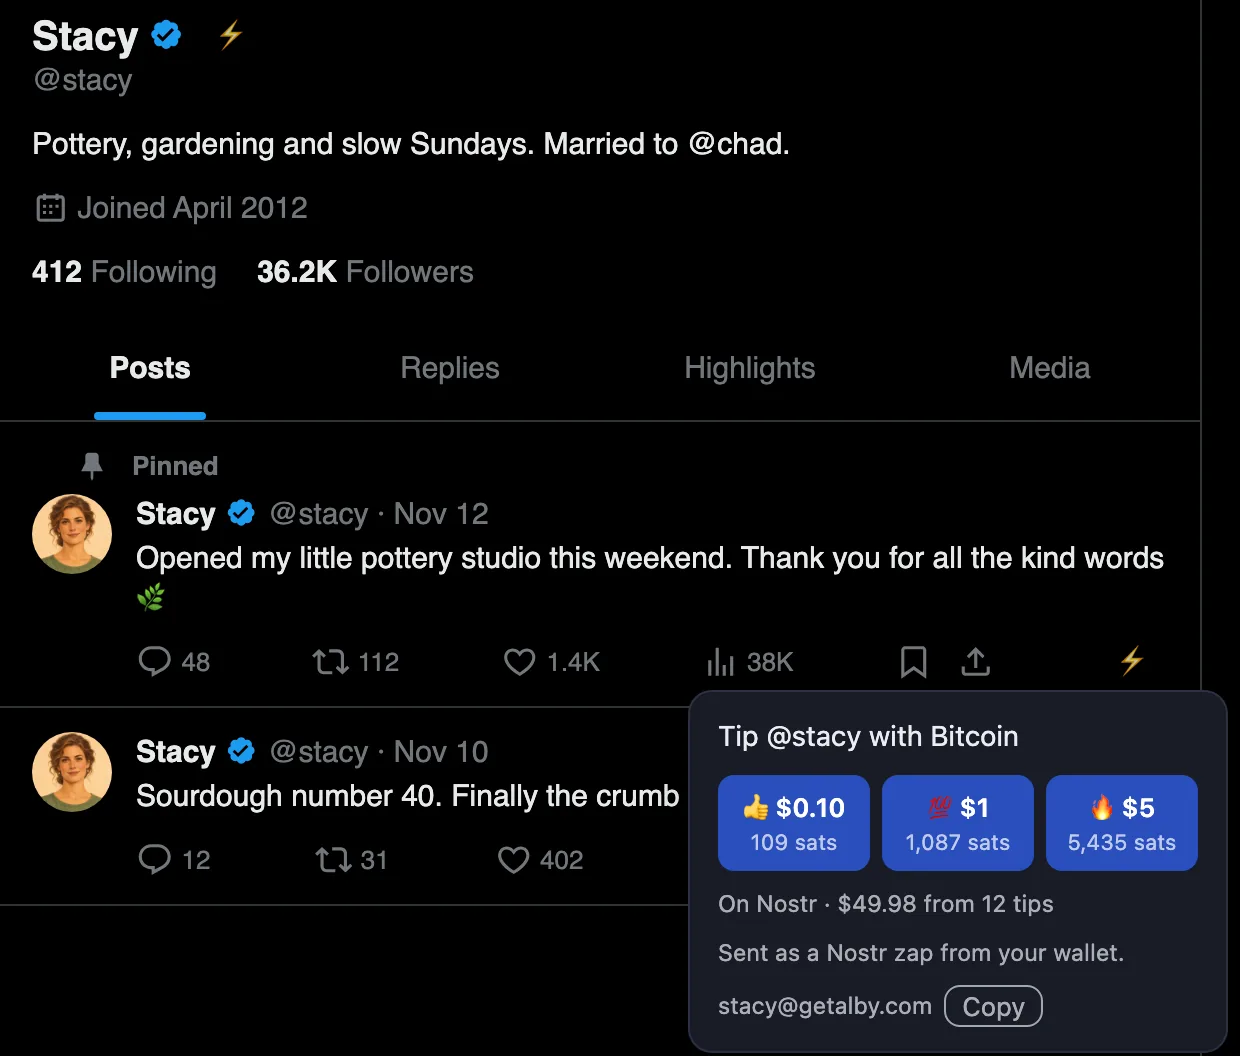
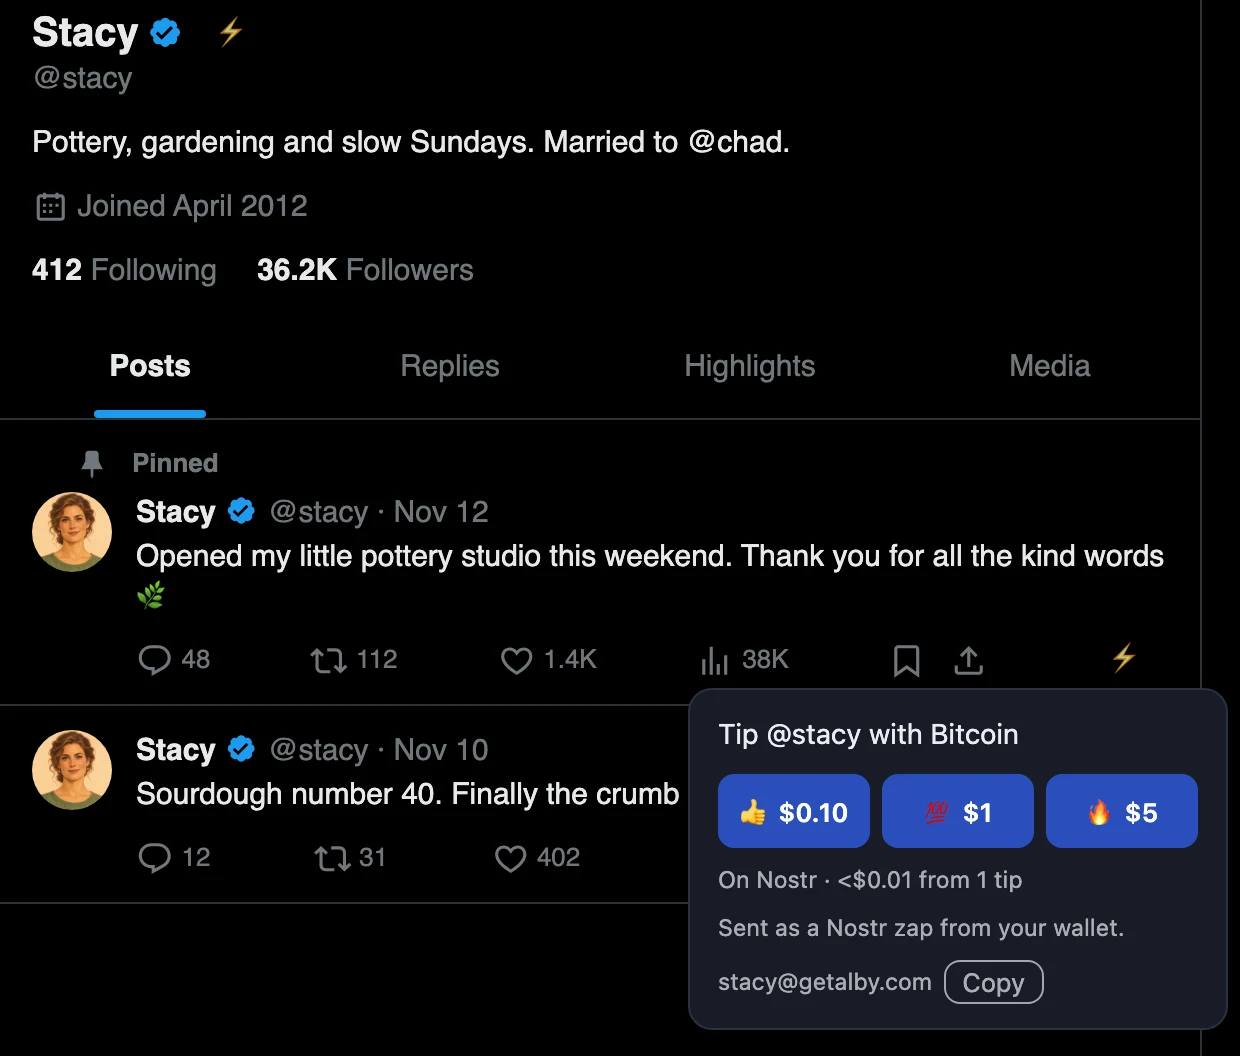
Show fiat-only tip amounts and refresh Stacy’s profile screenshots

diff --git a/src/x-tip-buttons.ts b/src/x-tip-buttons.ts
@@ -7,9 +7,8 @@ import qrcode from 'qrcode-generator';
 // that can receive tips. Paying happens in the user's own wallet via a lightning: link.
 
 type Send = (message: Message) => Promise<{ ok: boolean; value?: unknown; error?: string } | undefined>;
-// Small, medium and large tips, with Iris's emoji. Sats are used when no exchange rate is available.
+// Small, medium and large tips, with Iris's emoji.
 const EMOJI = ['👍', '💯', '🔥'];
-const SATS = [21, 100, 1000];
 const MARK = 'data-social-backup-tip';
 
 function author(article: Element) {
@@ -89,7 +88,7 @@ export function createTipButtons(send: Send, doc: Document = document) {
         padding:12px 14px;width:240px;box-shadow:0 8px 24px #0002}
       @media (prefers-color-scheme:dark){.box{background:#181c26;color:#e9ecf3;border-color:#2a3142}}
       p{margin:0 0 10px} small{opacity:.7;display:block;margin-top:8px} small:empty{display:none}
-      .row{display:flex;gap:6px} button small{display:block;margin:2px 0 0;font-weight:400}
+      .row{display:flex;gap:6px}
       button,a{flex:1;font:600 13px system-ui;border-radius:8px;padding:7px 0;cursor:pointer;
         text-align:center;text-decoration:none;border:1px solid #2a4fbd;background:#2a4fbd;color:#fff}
       button.alt{background:none;color:inherit;border-color:#dce2ec}
@@ -110,11 +109,9 @@ export function createTipButtons(send: Send, doc: Document = document) {
       box.querySelector('.address span')!.textContent = target.lightning;
       box.querySelector('.address button')!.addEventListener('click', () => void navigator.clipboard.writeText(target.lightning));
       const row = box.querySelector('.row')!;
-      rate ??= send({ type: 'tipRate', currency })
+      const currentRate = rate ??= send({ type: 'tipRate', currency })
         .then((reply) => (reply?.ok && typeof reply.value === 'number' ? reply.value : null))
         .catch(() => null);
-      const amount = (sats: number, perBitcoin: number | null) =>
-        perBitcoin ? formatFiat((sats / 1e8) * perBitcoin, currency) : sats.toLocaleString() + ' sats';
       // Look for this post's Nostr copy now, not while scrolling, so relays only learn about posts you tip.
       if (post)
         void send({ type: 'tipPost', handle, post: post.id, ...(post.time ? { time: post.time } : {}), ...(post.text ? { text: post.text } : {}) })
@@ -124,23 +121,22 @@ export function createTipButtons(send: Send, doc: Document = document) {
             if (!found?.note || !line) return;
             const show = (perBitcoin: number | null) => {
               line.textContent = found.tips
-                ? 'On Nostr · ' + amount(found.sats, perBitcoin) + ' from ' + found.tips + (found.tips === 1 ? ' tip' : ' tips')
+                ? 'On Nostr · ' + (perBitcoin ? formatFiat(found.sats * perBitcoin / 1e8, currency) + ' from ' : '') + found.tips + (found.tips === 1 ? ' tip' : ' tips')
                 : 'This post is on Nostr.';
             };
-            void rate!.then(show);
+            void currentRate.then(show);
           })
           .catch(() => {});
-      // Amounts appear once the exchange rate is known: in fiat, with sats in small print.
-      void rate!.then((perBitcoin) => {
-        const presets = perBitcoin ? tipPresets(currency, perBitcoin) : SATS.map((sats) => ({ sats, fiat: 0 }));
-        presets.forEach(({ sats, fiat }, i) => {
+      void currentRate.then((perBitcoin) => {
+        if (!perBitcoin) {
+          rate = undefined;
+          row.textContent = 'Exchange rate unavailable.';
+          return;
+        }
+        tipPresets(currency, perBitcoin).forEach(({ sats, fiat }, i) => {
+          const label = formatFiat(fiat, currency);
           const choice = doc.createElement('button');
-          choice.textContent = EMOJI[i] + ' ' + (fiat ? formatFiat(fiat, currency) : sats.toLocaleString() + ' sats');
-          if (fiat) {
-            const small = doc.createElement('small');
-            small.textContent = sats.toLocaleString() + ' sats';
-            choice.append(small);
-          }
+          choice.textContent = EMOJI[i] + ' ' + label;
           choice.addEventListener('click', async () => {
             show('<p>Getting an invoice…</p>');
             const reply = await send({ type: 'tipInvoice', handle, sats, ...(post ? { post: post.id } : {}) }).catch(() => undefined);
@@ -160,7 +156,7 @@ export function createTipButtons(send: Send, doc: Document = document) {
             show('<p>Pay <b></b> in your wallet.</p><div class="qr" role="img" aria-label="Invoice QR code">' +
               qr.createSvgTag({ cellSize: 4, margin: 0, scalable: true }) +
               '</div><div class="row"><a>Open wallet</a><button class="alt">Copy invoice</button></div>');
-            box.querySelector('b')!.textContent = fiat ? formatFiat(fiat, currency) + ' (' + sats.toLocaleString() + ' sats)' : sats.toLocaleString() + ' sats';
+            box.querySelector('b')!.textContent = label;
             box.querySelector('a')!.setAttribute('href', 'lightning:' + invoice);
             box.querySelector('button')!.addEventListener('click', () => void navigator.clipboard.writeText(invoice));
           });

diff --git a/test/x-tips.test.ts b/test/x-tips.test.ts
@@ -74,9 +74,9 @@ test('tip buttons appear only for verified accounts and open the wallet with a c
     (buttons[0] as HTMLElement).click();
     const box = () => doc.body.lastElementChild!.shadowRoot!.querySelector('.box')!;
     await new Promise((resolve) => setTimeout(resolve, 10));
-    // Amounts are in the page's currency, here 0.10 at 100,000 per bitcoin, with sats in small print.
+    // Amounts are in the page's currency, here 0.10 at 100,000 per bitcoin, with no secondary amount.
     assert.match(box().querySelector('.row button')!.textContent!, /^👍 \D?0[.,]10/);
-    assert.equal(box().querySelector('.row button small')!.textContent, '100 sats');
+    assert.doesNotMatch(box().textContent!, /sats/i);
     assert.match(box().querySelector('.address')!.textContent!, /alice@wallet\.example/);
     // Opening the popover looks for this post's Nostr copy, with its time and opening text.
     const lookup = sent.find((m) => m.type === 'tipPost')!;
@@ -87,7 +87,8 @@ test('tip buttons appear only for verified accounts and open the wallet with a c
     (box().querySelector('.row button') as HTMLElement).click();
     await new Promise((resolve) => setTimeout(resolve, 10));
     assert.deepEqual(sent.find((m) => m.type === 'tipInvoice'), { type: 'tipInvoice', handle: 'alice', sats: 100, post: '9' });
-    assert.match(box().querySelector('p b')!.textContent!, /100 sats/);
+    assert.match(box().querySelector('p b')!.textContent!, /^\D?0[.,]10\D*$/);
+    assert.doesNotMatch(box().textContent!, /sats/i);
     assert.equal(box().querySelector('a')!.getAttribute('href'), 'lightning:lnbc210n1pinvoice');
     // A QR code lets a phone wallet pay the same invoice.
     assert.ok(box().querySelector('.qr svg'));

diff --git a/website/public/index.html b/website/public/index.html
@@ -88,7 +88,7 @@
         <figure class="backup-preview tips-preview">
           <picture>
             <source media="(prefers-color-scheme: dark)" srcset="./screenshots/tips-dark.webp" width="620" height="528">
-            <img src="./screenshots/tips-light.webp" width="620" height="528" loading="lazy" alt="A ⚡ tip button on Stacy’s sample X profile opens tips of $0.10, $1 and $5 and shows $49.98 already tipped on Nostr.">
+            <img src="./screenshots/tips-light.webp" width="620" height="528" loading="lazy" alt="A ⚡ tip button on Stacy’s sample X profile opens tips of $0.10, $1 and $5 and shows one Nostr tip worth less than $0.01.">
           </picture>
           <figcaption>Tips on a sample X profile.</figcaption>
         </figure>

diff --git a/test/rates.test.ts b/test/rates.test.ts
@@ -27,6 +27,10 @@ test('Coinbase is read without cookies, and fiat amounts are short', async () =>
     assert.equal(init?.credentials, 'omit');
     return Response.json({ data: { currency: 'BTC', rates: { USD: '100000.5' } } });
   }), 100000.5);
+  assert.equal(formatFiat(0, 'USD', 'en-US'), '$0');
+  assert.equal(formatFiat(0.0099, 'USD', 'en-US'), '<$0.01');
+  assert.equal(formatFiat(0.001, 'EUR', 'de-DE'), '<0,01 €');
+  assert.equal(formatFiat(0.01, 'USD', 'en-US'), '$0.01');
   assert.equal(formatFiat(0.1, 'USD', 'en-US'), '$0.10');
   assert.equal(formatFiat(5, 'USD', 'en-US'), '$5');
   assert.equal(formatFiat(1.234, 'EUR', 'en-US'), '€1.23');

diff --git a/src/rates.ts b/src/rates.ts
@@ -56,7 +56,8 @@ export function tipPresets(currency: string, perBitcoin: number) {
 }
 
 /** A fiat amount such as "€0.10" or "¥100". */
-export function formatFiat(value: number, currency: string, locale?: string) {
+export function formatFiat(value: number, currency: string, locale?: string): string {
+  if (value > 0 && value < 0.01) return '<' + formatFiat(0.01, currency, locale);
   return new Intl.NumberFormat(locale, {
     style: 'currency', currency, minimumFractionDigits: value < 10 && value % 1 ? 2 : 0, maximumFractionDigits: 2,
   }).format(value);

diff --git a/README.md b/README.md
@@ -44,7 +44,7 @@ On the same page, the Instagram and Facebook cards let you enable either profile
 
 - **Link your X account.** Choose **Post verification on X** and post the prepared text. When Backup saves that post from your profile, it publishes a [NIP-39](https://github.com/nostr-protocol/nips/blob/master/39.md) claim (kind 10011) linking your X handle to your Nostr key. nostr.directory lists such claims as verified.
 - **Follow people you follow on X.** Scroll `x.com/<you>/following` to collect the accounts you follow, then choose **Find them on Nostr**. Backup reads NIP-39 claims for those handles from your relays and checks each proof post against X's signed-out public page, accepting nostr.directory's older hex-key proofs. Copied proofs fail. Checks run one per second, are remembered, and pause if X limits them. **Follow** adds the chosen people to your newest Nostr follow list and keeps existing follows.
-- **Tips on X.** A ⚡ button appears on posts and profiles of X accounts with a verified Nostr profile that has a lightning address. Choosing an amount signs a NIP-57 zap request, gets an invoice from the recipient's lightning provider, refuses invoices for any other amount, and opens your wallet with a `lightning:` link. Amounts are shown in your currency, with sats in small print, using Snort's signed rate events or Coinbase, saved for 15 minutes. The popover shows a QR code for phone wallets. When it opens, it looks for the post's Nostr copy so the tip zaps that post and shows tips it already received. To find tip buttons, the X accounts you see are looked up on your relays. Turn off **Show tip buttons on X** to stop this.
+- **Tips on X.** A ⚡ button appears on posts and profiles of X accounts with a verified Nostr profile that has a lightning address. Choosing an amount signs a NIP-57 zap request, gets an invoice from the recipient's lightning provider, refuses invoices for any other amount, and opens your wallet with a `lightning:` link. Amounts are shown in your currency, using Snort's signed rate events or Coinbase, saved for 15 minutes. The popover shows a QR code for phone wallets. When it opens, it looks for the post's Nostr copy so the tip zaps that post and shows tips it already received. To find tip buttons, the X accounts you see are looked up on your relays. Turn off **Show tip buttons on X** to stop this.
 
 When a captured post quotes a public post from one of your configured profiles, Backup reuses the existing signed original or retrieves and archives it first. The new note includes a clickable `nostr:nevent` link and a NIP-18 `q` tag. If an own original is unavailable or restricted, the quote stays in local drafts. A confirmed link to another author keeps its original URL.
 
